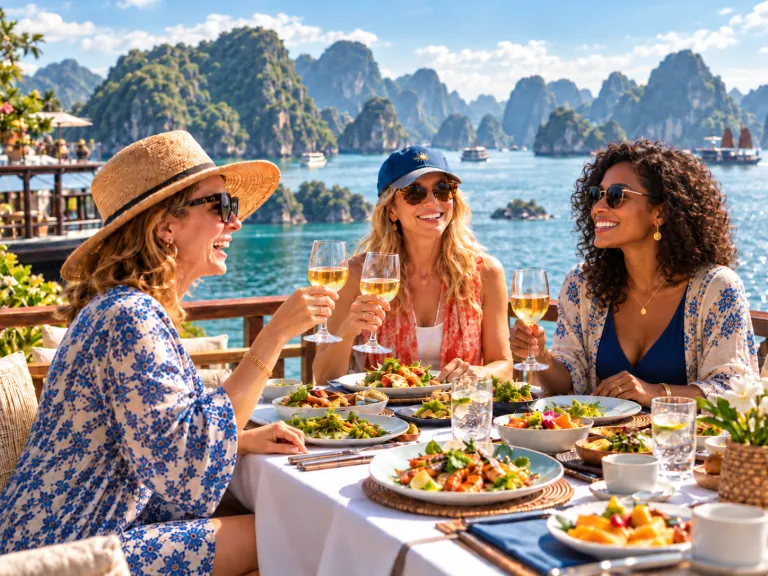
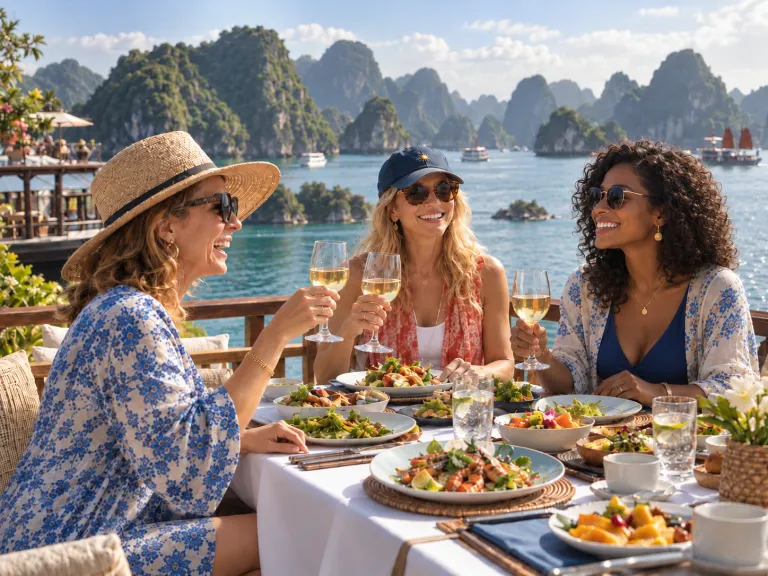
Remove the Hoi An lantern-walk photo; new bay-lunch photo
- Lantern-walk photo (added by mistake) removed from the Home Hoi An slideshow,
  the 7-day tour gallery and the Gallery page; files deleted
- Bay lunch: the team's less AI-looking version replaces the old one (same name, ?v=2)
- Gallery order rebalanced for 26 photos

diff --git a/html/tours/7-day-curated-essence/index.html b/html/tours/7-day-curated-essence/index.html
@@ -60,15 +60,14 @@
     <div class="tgal" data-gallery>
       <div class="tgal__main">
         <ul class="tgal__track">
-          <li><img src="../../images/hoian-lantern-walk.webp" width="1536" height="1024" alt="7-Day Curated Essence – photo 1"></li>
-          <li><img src="../../images/img-1.webp" width="1448" height="1086" alt="7-Day Curated Essence – photo 2"></li>
-          <li><img class="tgal__tall" src="../../images/aerial-view-of-a-verdant-imperial-citadel.jpg" width="1396" height="1127" alt="7-Day Curated Essence – photo 3" loading="lazy"></li>
-          <li><img src="../../images/img-2.webp" width="1448" height="1086" alt="7-Day Curated Essence – photo 4" loading="lazy"></li>
-          <li><img src="../../images/hoian-japanese-bridge.webp?v=20261012" width="1200" height="800" alt="7-Day Curated Essence – photo 5" loading="lazy"></li>
-          <li><img src="../../images/women-friends-tea.webp?v=20261012" width="1260" height="882" alt="7-Day Curated Essence – photo 6" loading="lazy"></li>
-          <li><img src="../../images/img-9.webp" width="1448" height="1086" alt="7-Day Curated Essence – photo 7" loading="lazy"></li>
-          <li><img src="../../images/hero-hoian-2.webp?v=20261012" width="1920" height="1282" alt="7-Day Curated Essence – photo 8" loading="lazy"></li>
-          <li><img src="../../images/experience-hoian.webp" width="1289" height="860" alt="7-Day Curated Essence – photo 9" loading="lazy"></li>
+          <li><img src="../../images/img-1.webp" width="1448" height="1086" alt="7-Day Curated Essence – photo 1"></li>
+          <li><img class="tgal__tall" src="../../images/aerial-view-of-a-verdant-imperial-citadel.jpg" width="1396" height="1127" alt="7-Day Curated Essence – photo 2" loading="lazy"></li>
+          <li><img src="../../images/img-2.webp" width="1448" height="1086" alt="7-Day Curated Essence – photo 3" loading="lazy"></li>
+          <li><img src="../../images/hoian-japanese-bridge.webp?v=20261012" width="1200" height="800" alt="7-Day Curated Essence – photo 4" loading="lazy"></li>
+          <li><img src="../../images/women-friends-tea.webp?v=20261012" width="1260" height="882" alt="7-Day Curated Essence – photo 5" loading="lazy"></li>
+          <li><img src="../../images/img-9.webp" width="1448" height="1086" alt="7-Day Curated Essence – photo 6" loading="lazy"></li>
+          <li><img src="../../images/hero-hoian-2.webp?v=20261012" width="1920" height="1282" alt="7-Day Curated Essence – photo 7" loading="lazy"></li>
+          <li><img src="../../images/experience-hoian.webp" width="1289" height="860" alt="7-Day Curated Essence – photo 8" loading="lazy"></li>
         </ul>
         <button class="tgal__arrow tgal__arrow--prev" type="button" aria-label="Previous image" data-dir="-1"><svg viewBox="0 0 24 24" aria-hidden="true"><path d="M15 18l-6-6 6-6"/></svg></button>
         <button class="tgal__arrow tgal__arrow--next" type="button" aria-label="Next image" data-dir="1"><svg viewBox="0 0 24 24" aria-hidden="true"><path d="M9 6l6 6-6 6"/></svg></button>
@@ -76,15 +75,14 @@
       <div class="tgal__thumbs">
         <div class="tgal__viewport">
           <ul class="tgal__strip">
-            <li><button class="is-active" type="button" aria-label="Image 1"><img src="../../images/hoian-lantern-walk-768.webp" width="148" height="96" alt=""></button></li>
-            <li><button type="button" aria-label="Image 2"><img src="../../images/img-1-768x576.webp" width="148" height="96" alt=""></button></li>
-            <li><button type="button" aria-label="Image 3"><img src="../../images/aerial-view-of-a-verdant-imperial-citadel-768x620.jpg" width="148" height="96" alt=""></button></li>
-            <li><button type="button" aria-label="Image 4"><img src="../../images/img-2-768x576.webp" width="148" height="96" alt=""></button></li>
-            <li><button type="button" aria-label="Image 5"><img src="../../images/hoian-japanese-bridge-768.webp?v=20261012" width="148" height="96" alt=""></button></li>
-            <li><button type="button" aria-label="Image 6"><img src="../../images/women-friends-tea-768.webp?v=20261012" width="148" height="96" alt="" loading="lazy"></button></li>
-            <li><button type="button" aria-label="Image 7"><img src="../../images/img-9-768x576.webp" width="148" height="96" alt="" loading="lazy"></button></li>
-            <li><button type="button" aria-label="Image 8"><img src="../../images/hero-hoian-2-960.webp?v=20261012" width="148" height="96" alt="" loading="lazy"></button></li>
-            <li><button type="button" aria-label="Image 9"><img src="../../images/experience-hoian-768x512.webp" width="148" height="96" alt="" loading="lazy"></button></li>
+            <li><button class="is-active" type="button" aria-label="Image 1"><img src="../../images/img-1-768x576.webp" width="148" height="96" alt=""></button></li>
+            <li><button type="button" aria-label="Image 2"><img src="../../images/aerial-view-of-a-verdant-imperial-citadel-768x620.jpg" width="148" height="96" alt=""></button></li>
+            <li><button type="button" aria-label="Image 3"><img src="../../images/img-2-768x576.webp" width="148" height="96" alt=""></button></li>
+            <li><button type="button" aria-label="Image 4"><img src="../../images/hoian-japanese-bridge-768.webp?v=20261012" width="148" height="96" alt=""></button></li>
+            <li><button type="button" aria-label="Image 5"><img src="../../images/women-friends-tea-768.webp?v=20261012" width="148" height="96" alt="" loading="lazy"></button></li>
+            <li><button type="button" aria-label="Image 6"><img src="../../images/img-9-768x576.webp" width="148" height="96" alt="" loading="lazy"></button></li>
+            <li><button type="button" aria-label="Image 7"><img src="../../images/hero-hoian-2-960.webp?v=20261012" width="148" height="96" alt="" loading="lazy"></button></li>
+            <li><button type="button" aria-label="Image 8"><img src="../../images/experience-hoian-768x512.webp" width="148" height="96" alt="" loading="lazy"></button></li>
           </ul>
         </div>
         <button class="tgal__nav tgal__nav--prev" type="button" aria-label="Previous thumbnails" data-dir="-1"><svg viewBox="0 0 24 24" aria-hidden="true"><path d="M15 18l-6-6 6-6"/></svg></button>

diff --git a/html/gallery/index.html b/html/gallery/index.html
@@ -67,19 +67,19 @@
     </div>
     <div class="lens__grid lens__grid--masonry" data-lightbox>
       <a class="lens__item" href="../images/hero-hoian-1.webp?v=20261015"><img src="../images/hero-hoian-1.webp?v=20261015" alt="Wooden boats on the Thu Bon River in Hoi An at golden hour" loading="lazy"></a>
-      <a class="lens__item" href="../images/banner-04.webp"><img src="../images/banner-04.webp" alt="Two friends enjoying the lantern-lit streets of Hoi An" loading="lazy"></a>
+      <a class="lens__item" href="../images/n-place6.jpg"><img src="../images/n-place6.jpg" alt="Painting ceramics with a local artisan" loading="lazy"></a>
+      <a class="lens__item" href="../images/friends-bay-lunch.webp?v=2"><img src="../images/friends-bay-lunch-768.webp?v=2" alt="Three friends raising a glass over a seafood lunch on a terrace by the bay" loading="lazy"></a>
       <a class="lens__item" href="../images/BP%20-%20Beauty%207.jpeg"><img src="../images/BP%20-%20Beauty%207.jpeg" alt="A gentle facial treatment in a calm spa" loading="lazy"></a>
-      <a class="lens__item" href="../images/hoian-lantern-walk.webp"><img src="../images/hoian-lantern-walk-768.webp" alt="A woman in a white dress and conical hat strolling down a lantern-hung street in Hoi An" loading="lazy"></a>
       <a class="lens__item" href="../images/img-4-1024x1024.webp"><img src="../images/img-4-1024x1024.webp" alt="Friends enjoying drinks on a terrace above a resort pool" loading="lazy"></a>
       <a class="lens__item" href="../images/img-8-1024x1024.webp"><img src="../images/img-8-1024x1024.webp" alt="A dress fitting at a tailor in Hoi An" loading="lazy"></a>
       <a class="lens__item" href="../images/img-1-1024x1024.webp"><img src="../images/img-1-1024x1024.webp" alt="Four friends laughing over tea at a garden cafe" loading="lazy"></a>
-      <a class="lens__item" href="../images/BP%20-%20Beauty%208.jpeg"><img src="../images/BP%20-%20Beauty%208.jpeg" alt="A nourishing facial mask being applied" loading="lazy"></a>
+      <a class="lens__item" href="../images/BP%20-%20Beauty%204.jpeg"><img src="../images/BP%20-%20Beauty%204.jpeg" alt="A smiling woman with a frangipani in her hair during a back massage" loading="lazy"></a>
       <a class="lens__item" href="../images/friends-garden-lunch.webp"><img src="../images/friends-garden-lunch-768.webp" alt="Four friends laughing over lunch in a lantern-hung garden" loading="lazy"></a>
       <a class="lens__item" href="../images/img-9-1024x1024.webp"><img src="../images/img-9-1024x1024.webp" alt="Trying on a silk scarf with a local tailor" loading="lazy"></a>
       <a class="lens__item" href="../images/cooking-class.webp?v=20261016"><img src="../images/cooking-class.webp?v=20261016" alt="Two women friends preparing a meal together at a cooking class" loading="lazy"></a>
       <a class="lens__item" href="../images/women-friends-dinner-1024.webp?v=20261016"><img src="../images/women-friends-dinner-1024.webp?v=20261016" alt="Two women friends sharing a candlelit dinner" loading="lazy"></a>
       <a class="lens__item" href="../images/BP%20-%20Healthcare%205.jpeg"><img src="../images/BP%20-%20Healthcare%205.jpeg" alt="A smiling woman during a dental check-up" loading="lazy"></a>
-      <a class="lens__item" href="../images/friends-bay-lunch.webp"><img src="../images/friends-bay-lunch-768.webp" alt="Three friends raising a glass over a seafood lunch on a terrace by the bay" loading="lazy"></a>
+      <a class="lens__item" href="../images/banner-04.webp"><img src="../images/banner-04.webp" alt="Two friends enjoying the lantern-lit streets of Hoi An" loading="lazy"></a>
       <a class="lens__item" href="../images/banner-02.webp"><img src="../images/banner-02.webp" alt="A woman reading on a beach lounger at sunset" loading="lazy"></a>
       <a class="lens__item" href="../images/img-2-1024x1024.webp"><img src="../images/img-2-1024x1024.webp" alt="Lunch in a leafy garden cafe" loading="lazy"></a>
       <a class="lens__item" href="../images/BP%20-%20Beauty%202.jpeg"><img src="../images/BP%20-%20Beauty%202.jpeg" alt="A blow-dry and styling session" loading="lazy"></a>
@@ -91,8 +91,7 @@
       <a class="lens__item" href="../images/BP%20-%20Beauty%203.jpeg"><img src="../images/BP%20-%20Beauty%203.jpeg" alt="A manicure in a bright salon" loading="lazy"></a>
       <a class="lens__item" href="../images/hoian-japanese-bridge.webp?v=20261012"><img src="../images/hoian-japanese-bridge.webp?v=20261012" alt="The Japanese Covered Bridge in Hoi An" loading="lazy"></a>
       <a class="lens__item" href="../images/BP%20-%20Healthcare%201.jpeg"><img src="../images/BP%20-%20Healthcare%201.jpeg" alt="A blood pressure check during a health screening" loading="lazy"></a>
-      <a class="lens__item" href="../images/BP%20-%20Beauty%204.jpeg"><img src="../images/BP%20-%20Beauty%204.jpeg" alt="A smiling woman with a frangipani in her hair during a back massage" loading="lazy"></a>
-      <a class="lens__item" href="../images/n-place6.jpg"><img src="../images/n-place6.jpg" alt="Painting ceramics with a local artisan" loading="lazy"></a>
+      <a class="lens__item" href="../images/BP%20-%20Beauty%208.jpeg"><img src="../images/BP%20-%20Beauty%208.jpeg" alt="A nourishing facial mask being applied" loading="lazy"></a>
     </div>
   </section>
 

diff --git a/html/index.html b/html/index.html
@@ -175,7 +175,7 @@
       <a class="lens__item" href="images/img-1-1024x1024.webp"><img src="images/img-1-1024x1024.webp" alt="Four friends laughing over tea at a garden cafe" loading="lazy"></a>
       <a class="lens__item" href="images/BP%20-%20Beauty%207.jpeg"><img src="images/BP%20-%20Beauty%207.jpeg" alt="A gentle facial treatment in a calm spa" loading="lazy"></a>
       <a class="lens__item" href="images/destination-hoian.webp"><img src="images/destination-hoian.webp" alt="Friends browsing a lantern shop in Hoi An at dusk" loading="lazy"></a>
-      <a class="lens__item" href="images/friends-bay-lunch.webp"><img src="images/friends-bay-lunch.webp" alt="Three friends raising a glass over a seafood lunch on a terrace by the bay" loading="lazy"></a>
+      <a class="lens__item" href="images/friends-bay-lunch.webp?v=2"><img src="images/friends-bay-lunch.webp?v=2" alt="Three friends raising a glass over a seafood lunch on a terrace by the bay" loading="lazy"></a>
       <a class="lens__item" href="images/destination-hue.webp"><img src="images/destination-hue.webp" alt="Strolling towards the Meridian Gate of the Hue Imperial City" loading="lazy"></a>
     </div>
   </section>
@@ -302,8 +302,7 @@
       </article>
       <article class="place place--reverse">
         <div class="place__img place__slides" data-slides>
-          <img class="place__slide is-active" src="images/hoian-lantern-walk-slide.webp" srcset="images/hoian-lantern-walk-slide-768.webp 768w, images/hoian-lantern-walk-slide.webp 1194w" sizes="(max-width: 767px) 100vw, 560px" width="560" height="480" alt="A woman in a white dress and conical hat strolling down a lantern-hung street in Hoi An" loading="lazy">
-          <img class="place__slide" src="images/hoian-japanese-bridge-slide.webp" srcset="images/hoian-japanese-bridge-slide-768.webp 768w, images/hoian-japanese-bridge-slide.webp 1400w" sizes="(max-width: 767px) 100vw, 560px" width="560" height="480" alt="The Japanese Covered Bridge in Hoi An" loading="lazy">
+          <img class="place__slide is-active" src="images/hoian-japanese-bridge-slide.webp" srcset="images/hoian-japanese-bridge-slide-768.webp 768w, images/hoian-japanese-bridge-slide.webp 1400w" sizes="(max-width: 767px) 100vw, 560px" width="560" height="480" alt="The Japanese Covered Bridge in Hoi An" loading="lazy">
           <img class="place__slide" src="images/hoian-lantern-street.webp" srcset="images/hoian-lantern-street-768.webp 768w, images/hoian-lantern-street.webp 1400w" sizes="(max-width: 767px) 100vw, 560px" width="560" height="480" alt="Lantern-lit cafés and cyclos on a Hoi An street at dusk" loading="lazy">
           <img class="place__slide" src="images/hoian-basket-boat.webp" srcset="images/hoian-basket-boat-768.webp 768w, images/hoian-basket-boat.webp 1400w" sizes="(max-width: 767px) 100vw, 560px" width="560" height="480" alt="A basket boat spinning through the Cam Thanh coconut forest" loading="lazy">
           <img class="place__slide" src="images/hoian-lanterns.webp" srcset="images/hoian-lanterns-768.webp 768w, images/hoian-lanterns.webp 1400w" sizes="(max-width: 767px) 100vw, 560px" width="560" height="480" alt="Silk lanterns glowing in red, gold and green" loading="lazy">

diff --git a/image-credits.md b/image-credits.md
@@ -67,13 +67,12 @@ Hue:
 4. hue-hien-lam-gate – Unsplash fFghADH20qk (Chu CHU)
 5. hue-perfume-river – Unsplash vTigW1wO1wU
 
-## Client favourites (supplied by the team, 2026-10-10)
+## Client favourites (supplied by the team, 2026-10-10; a fifth, Hoi An lantern walk, was added by mistake and removed)
 
 Originals in `source-images/own/<name>__team.png`. Two of them (bay lunch, bay sunset) show a karst bay, not Central Vietnam,
 so they are used where no place is named.
 | File (html/images/) | Where |
 |---|---|
-| hoian-lantern-walk (+ `-slide` 7:6 crop) | Home Hoi An slideshow (slide 1), 7-day tour gallery cover, Gallery |
 | friends-garden-lunch | Home Culinary tab, Gallery |
 | friends-bay-lunch | Home gallery (large tile), Gallery |
 | woman-pool-relax (+ `-tall` crop) | Home Beachfront tab, 10-day tour gallery cover, Gallery |
